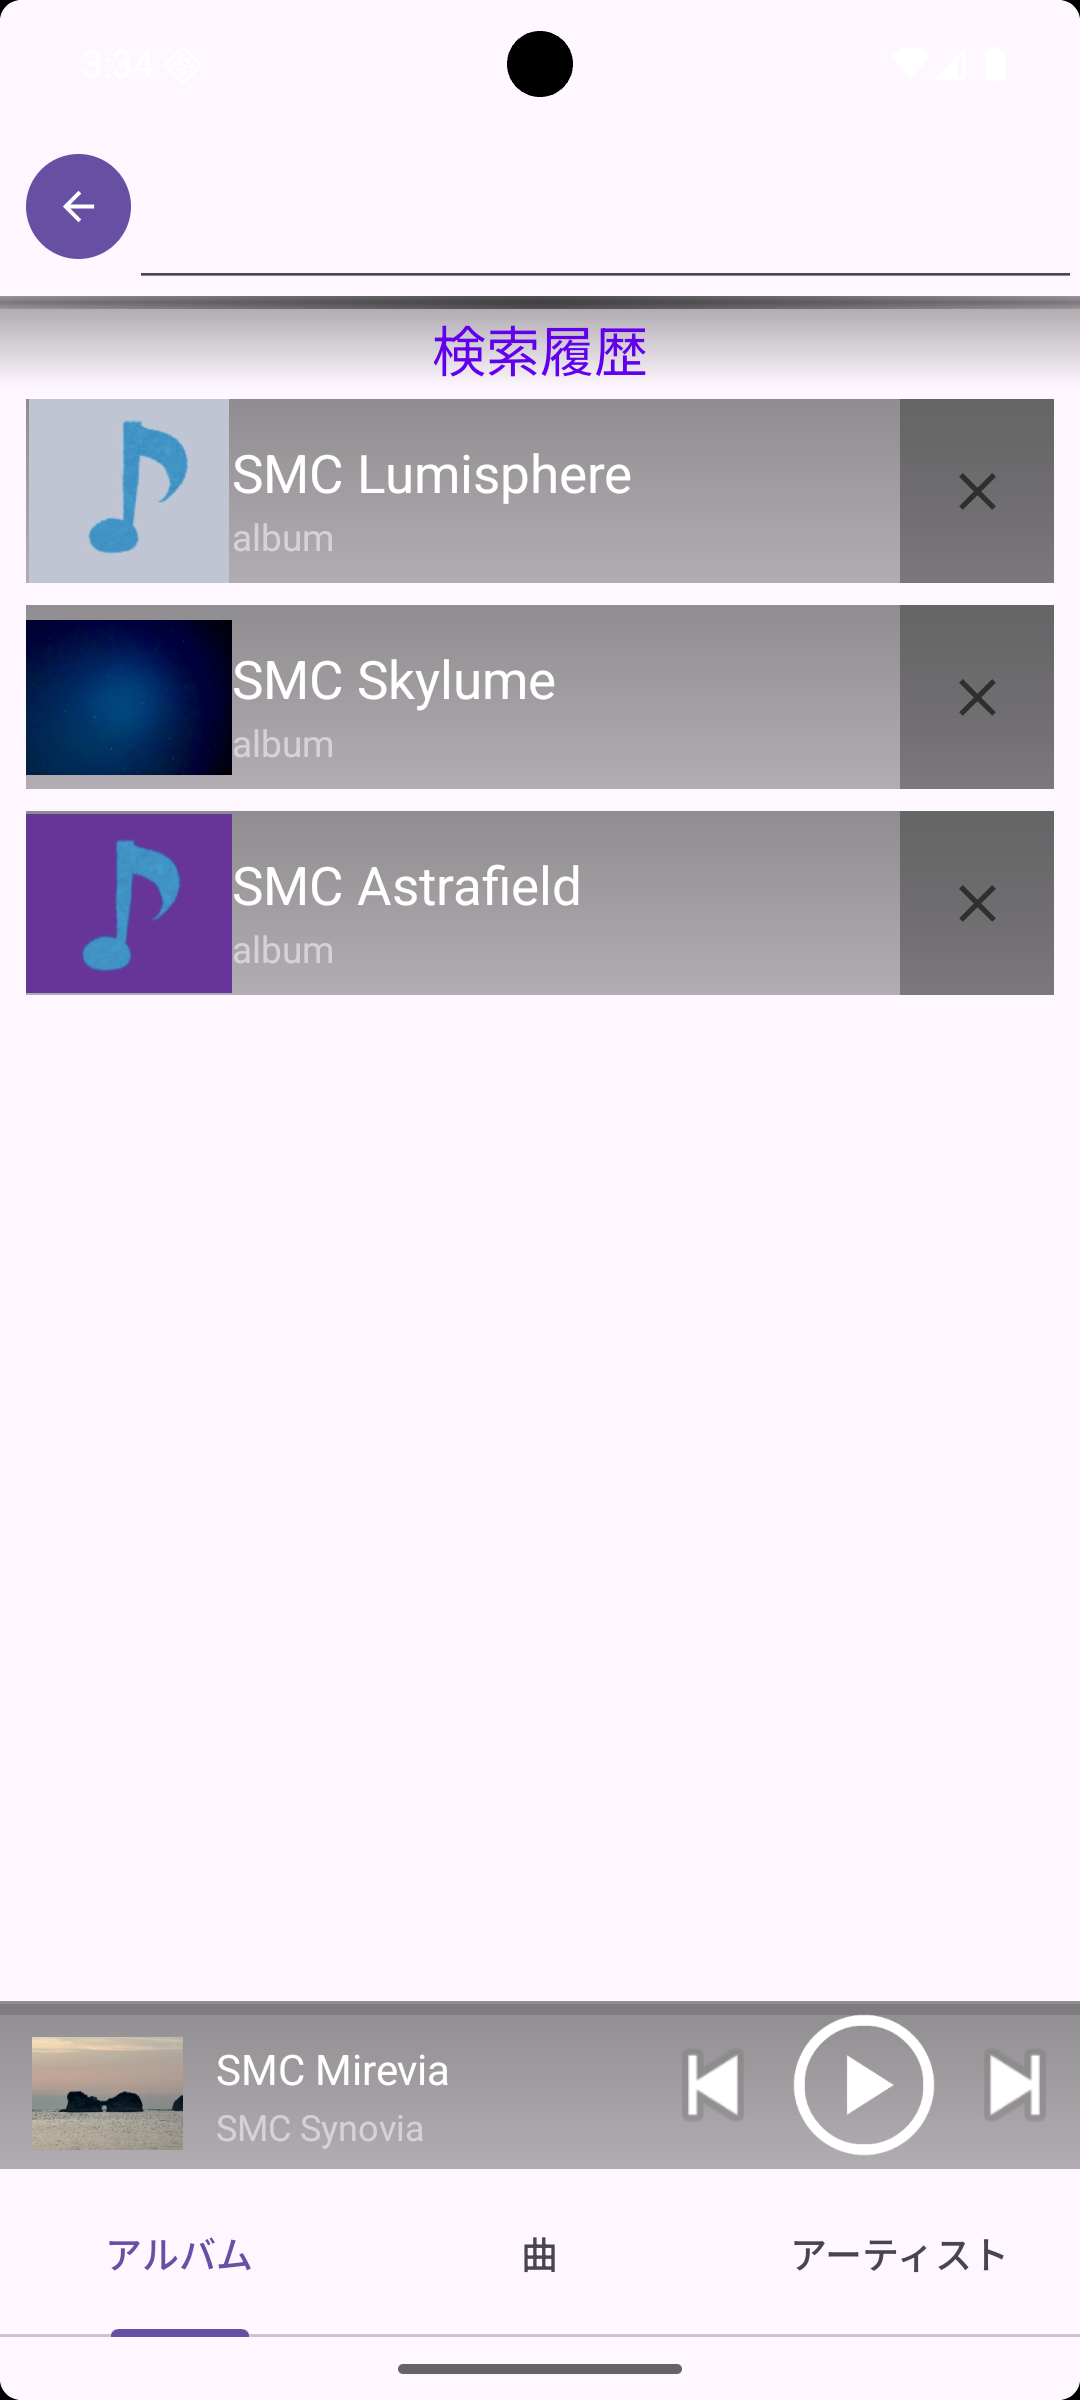
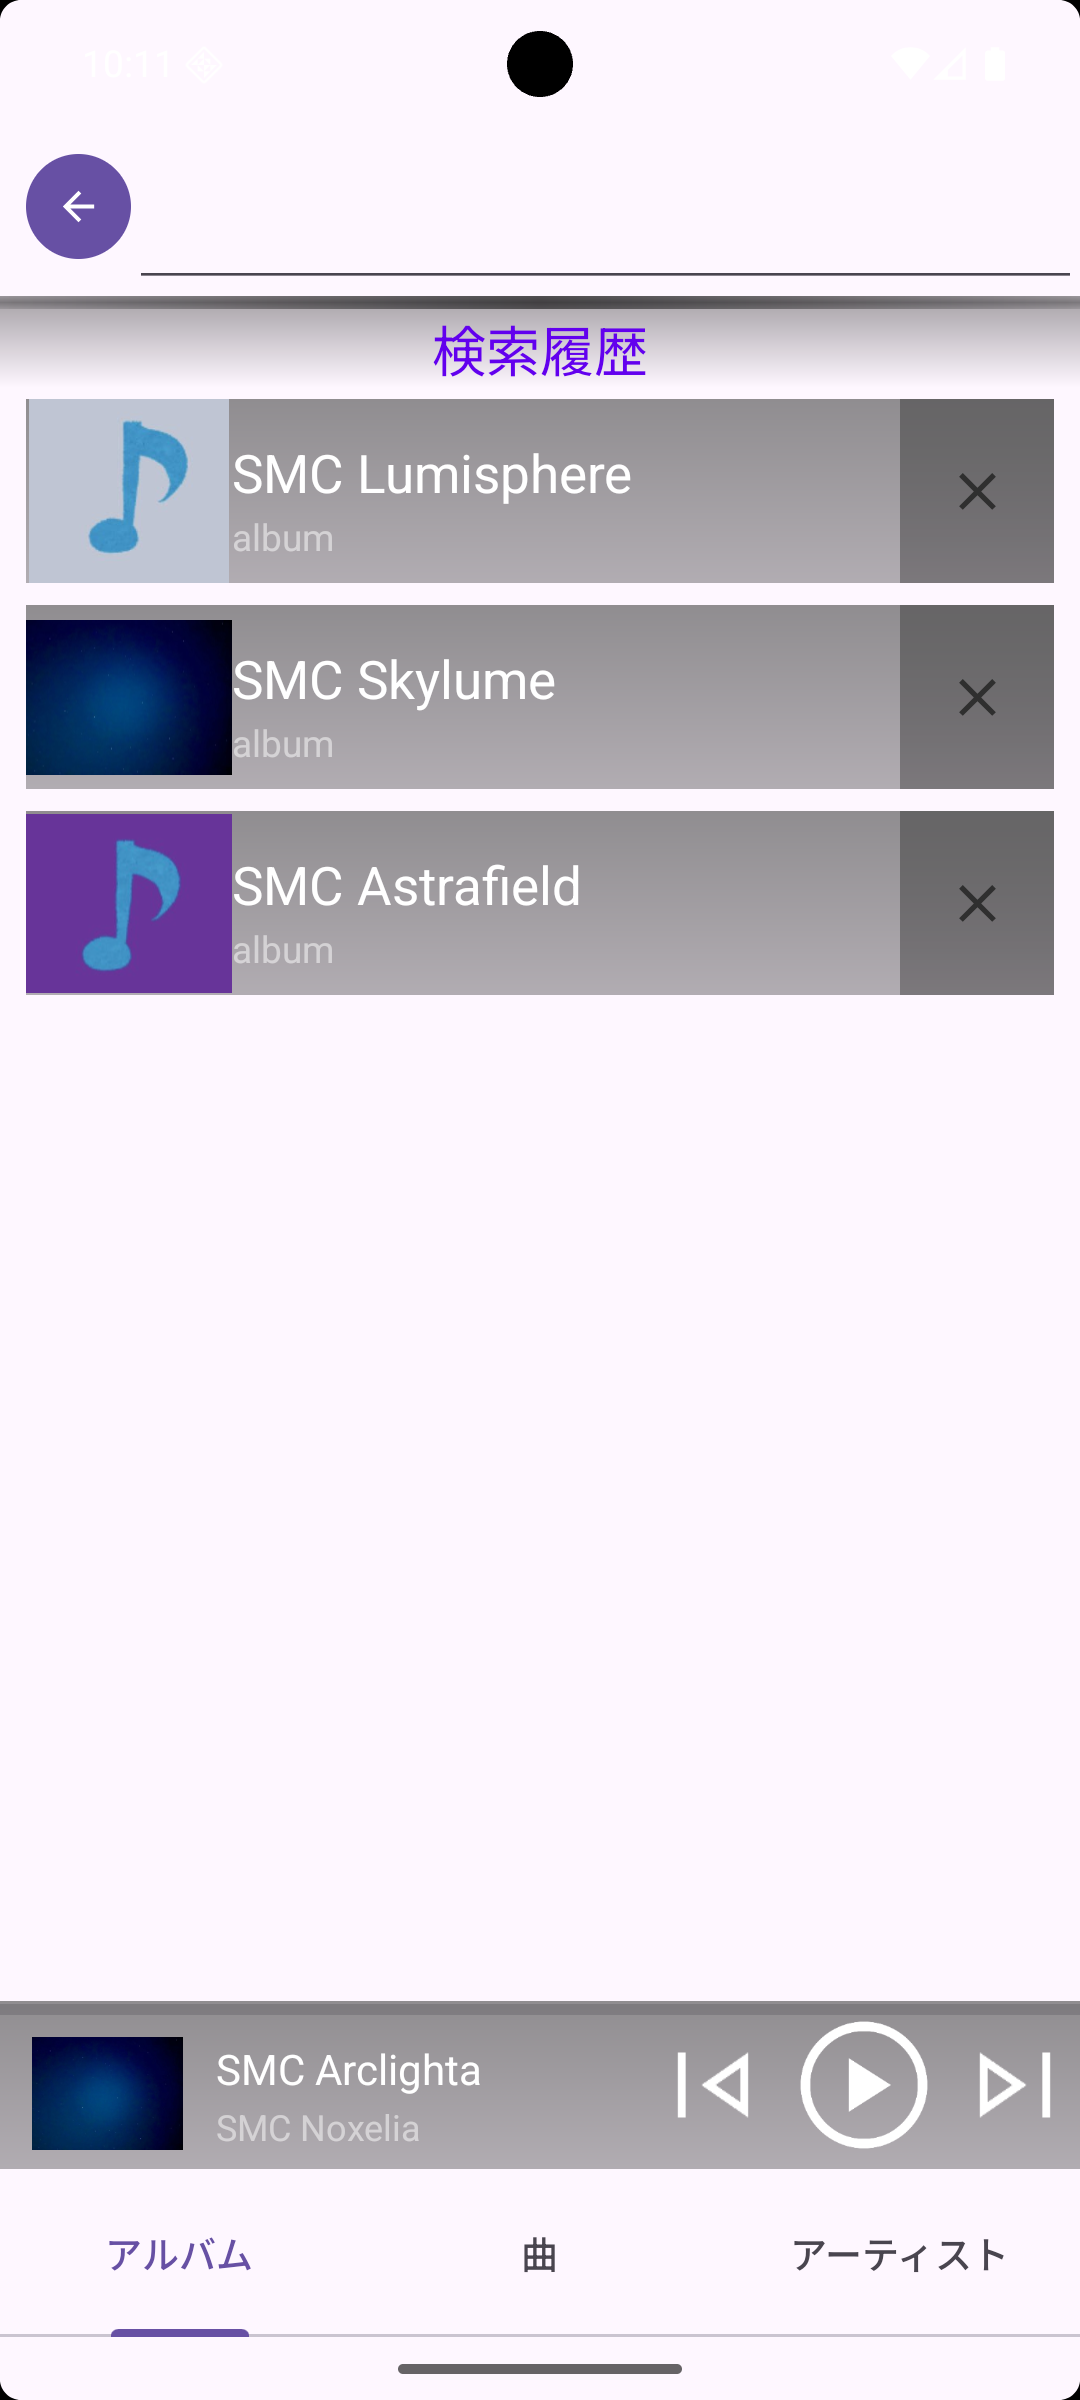
バージョンアップ_1.0_beta4 READMEのスクショ更新 デザイン変更

diff --git a/app/src/main/java/jp/gr/java_conf/SenseMusicClock/ui/Widget/ControlWidget.kt b/app/src/main/java/jp/gr/java_conf/SenseMusicClock/ui/Widget/ControlWidget.kt
@@ -345,13 +345,15 @@ class ControlWidget : GlanceAppWidget() {
                 modifier = GlanceModifier.width(oneWeight)
             )
             Image(
-                provider = ImageProvider(androidx.media3.session.R.drawable.media3_icon_previous),
+                provider = ImageProvider(R.drawable.icon_prev),
                 contentDescription = null,
                 modifier = GlanceModifier
                     .clickable(
                         onClick = actionRunCallback<ActionPrev>()
                     )
-                    .size(iconSize)
+                    .size(iconSize),
+                contentScale = ContentScale.Fit
+
             )
             Spacer(
                 modifier = GlanceModifier.width(oneWeight)
@@ -367,18 +369,21 @@ class ControlWidget : GlanceAppWidget() {
 
                     .clickable(
                         onClick = actionRunCallback<ActionPlayPause>()
-                    ).size(iconSize)
+                    ).size(iconSize),
+                contentScale = ContentScale.Fit
+
             )
             Spacer(
                 modifier = GlanceModifier.width(oneWeight)
             )
             Image(
-                provider = ImageProvider(androidx.media3.session.R.drawable.media3_icon_next),
+                provider = ImageProvider(R.drawable.icon_next),
                 contentDescription = null,
                 modifier = GlanceModifier
                     .clickable(
                         onClick = actionRunCallback<ActionNext>()
-                    ).size(iconSize)
+                    ).size(iconSize),
+                contentScale = ContentScale.Fit
             )
             Spacer(
                 modifier = GlanceModifier.width(oneWeight)

diff --git a/app/src/main/java/jp/gr/java_conf/SenseMusicClock/ui/MainActivity.kt b/app/src/main/java/jp/gr/java_conf/SenseMusicClock/ui/MainActivity.kt
@@ -342,7 +342,7 @@ class MainActivity : AppCompatActivity() {
 
         ) {
             Icon(
-                painter = painterResource(id = R.drawable.settings_icon),
+                painter = painterResource(id = R.drawable.icon_settings),
                 contentDescription = "Settings",
                 tint = colorResource(id = R.color.white),
 
